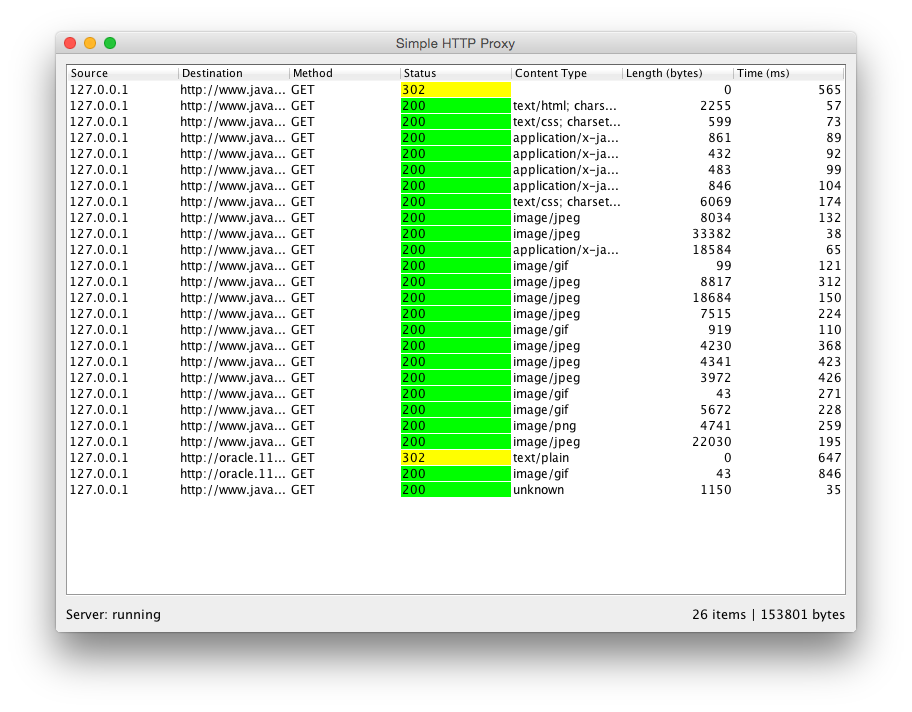
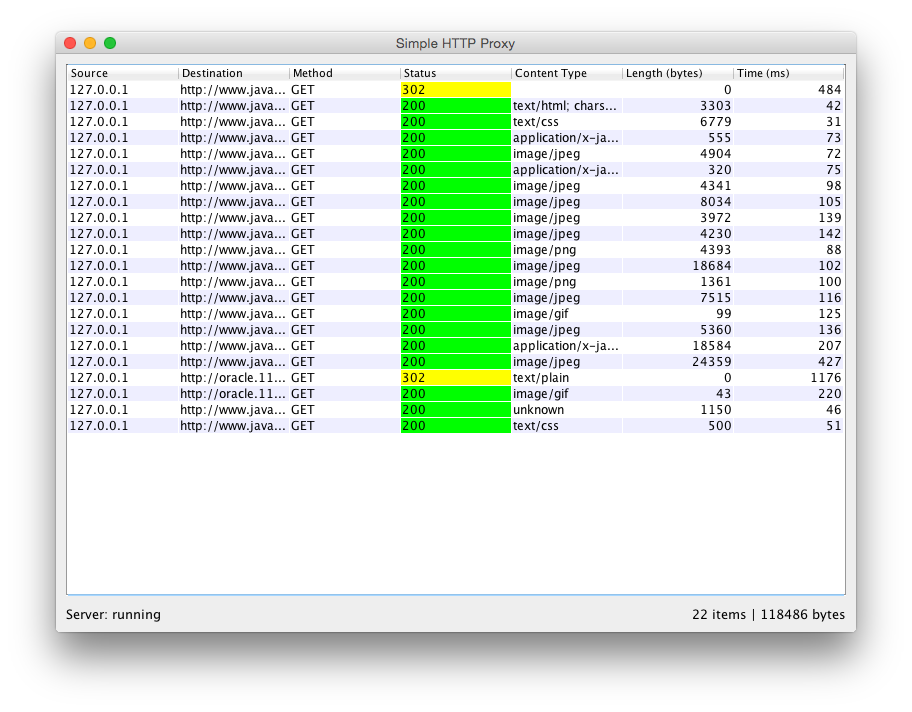
updated README and screenshots

diff --git a/README.md b/README.md
@@ -11,3 +11,5 @@ Simple HTTP Proxy running on Mac OS X with Java 8.
 ![ScreenShot](/etc/ss-1.png)
 
 ![ScreenShot](/etc/ss-2.png)
+
+![ScreenShot](/etc/ss-3.png)
